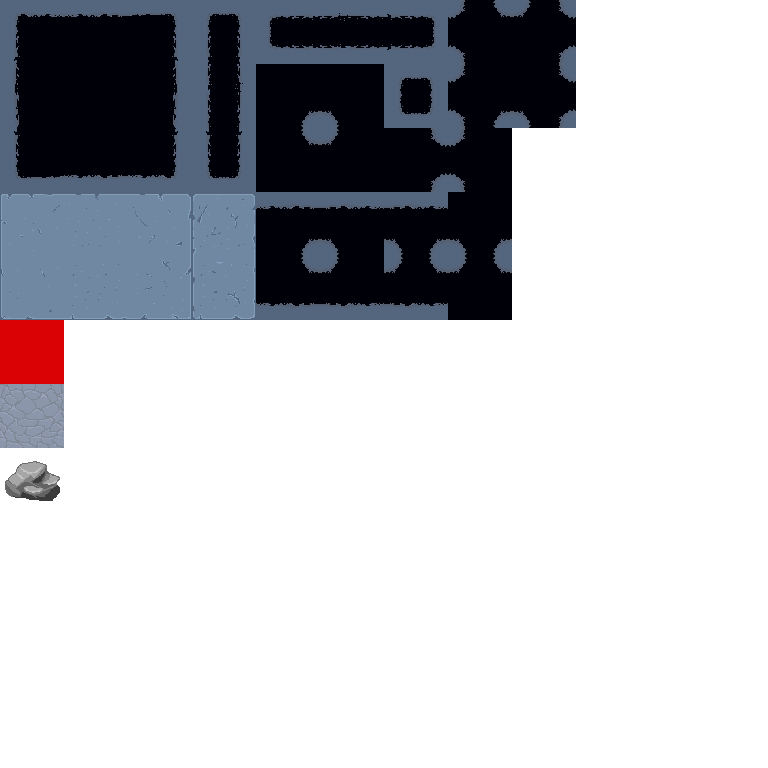
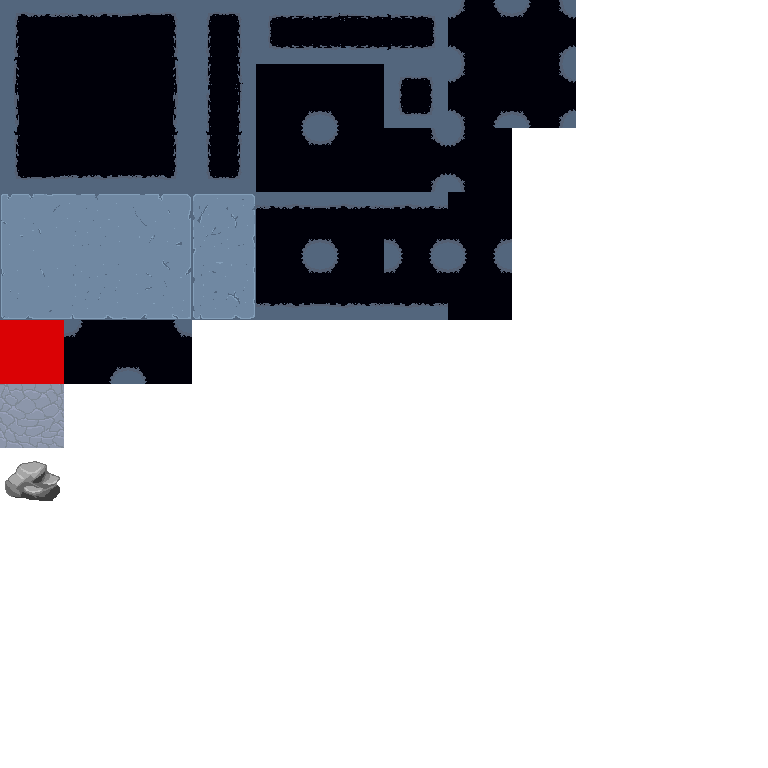
added key room to 2nd section of level1

Changed region(s): [[0.0625, 0.4062, 0.25, 0.5]]

diff --git a/levels/level_data/objects.tsx b/levels/level_data/objects.tsx
@@ -1,5 +1,5 @@
 <?xml version="1.0" encoding="UTF-8"?>
-<tileset version="1.8" tiledversion="1.8.2" name="walls" tilewidth="64" tileheight="64" tilecount="47" columns="9">
+<tileset version="1.8" tiledversion="1.8.2" name="walls" tilewidth="64" tileheight="64" tilecount="52" columns="9">
  <grid orientation="orthogonal" width="1" height="1"/>
  <tile id="0">
   <image width="64" height="64" source="../../graphics/walls/1.png"/>
@@ -141,5 +141,20 @@
  </tile>
  <tile id="46">
   <image width="64" height="64" source="../../graphics/walls/47.png"/>
+ </tile>
+ <tile id="47">
+  <image width="64" height="64" source="../../graphics/walls/48.png"/>
+ </tile>
+ <tile id="48">
+  <image width="64" height="64" source="../../graphics/walls/49.png"/>
+ </tile>
+ <tile id="49">
+  <image width="64" height="64" source="../../graphics/walls/50.png"/>
+ </tile>
+ <tile id="50">
+  <image width="64" height="64" source="../../graphics/walls/51.png"/>
+ </tile>
+ <tile id="51">
+  <image width="64" height="64" source="../../graphics/walls/52.png"/>
  </tile>
 </tileset>
